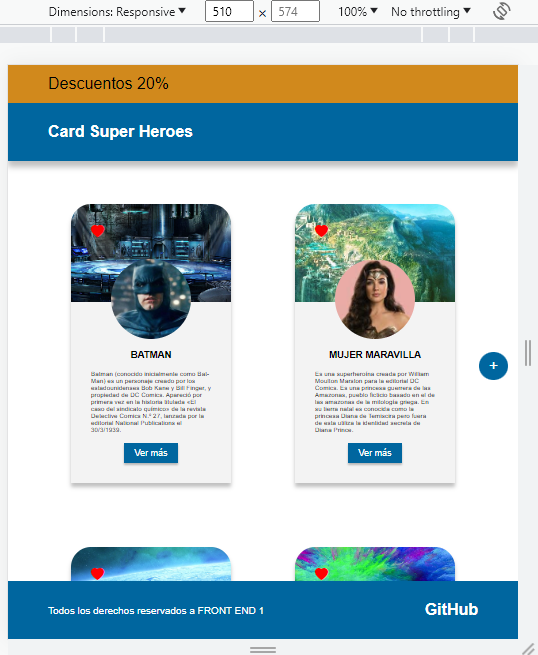
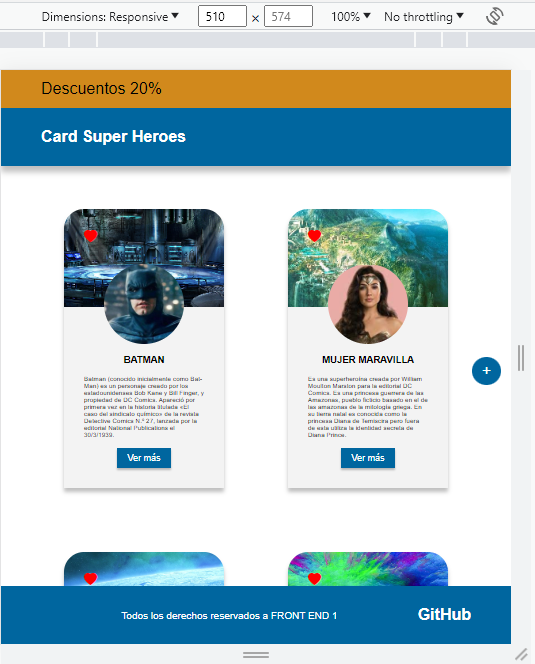
text in footer

diff --git a/css/styles.css b/css/styles.css
@@ -147,6 +147,9 @@ footer{
         justify-content: space-between;
         align-items: center;
     }
+    footer p{
+        flex-grow: 1;
+    }
     footer h3{
         font-size: 1rem;
     }
